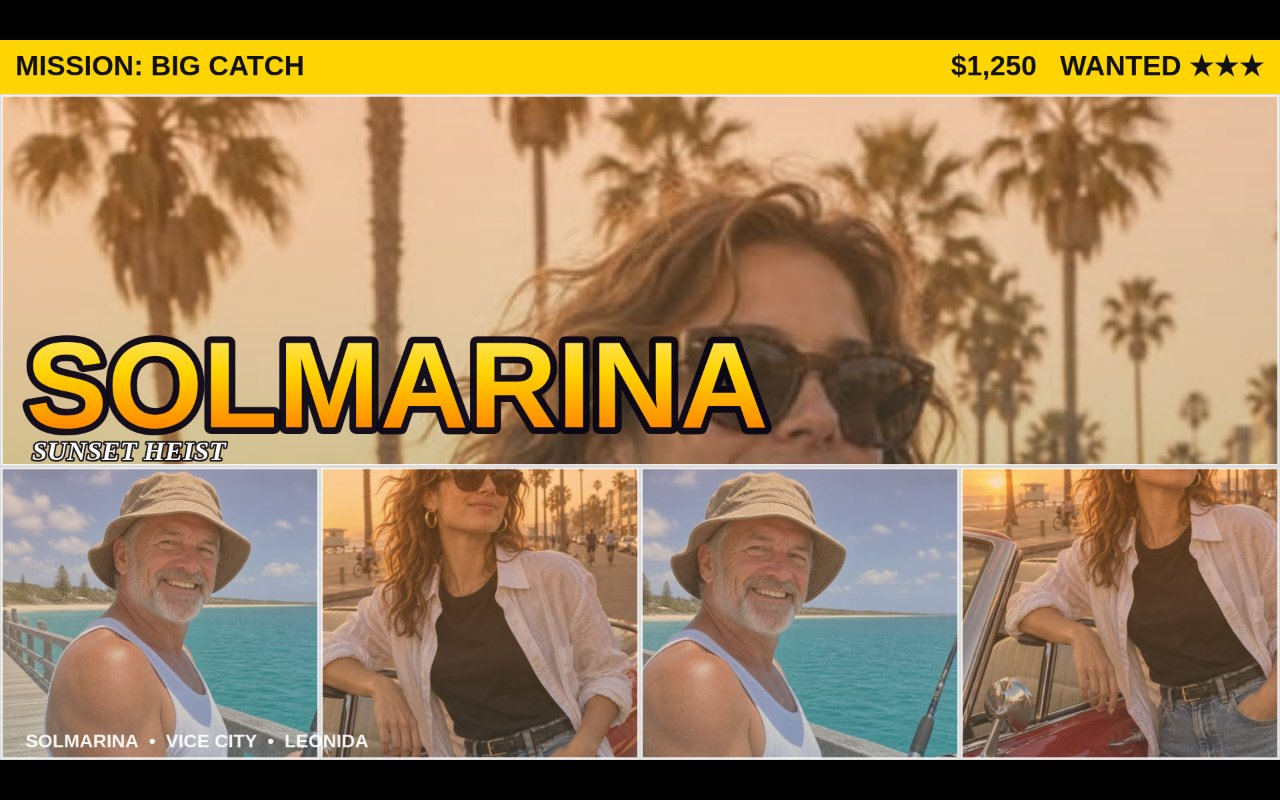
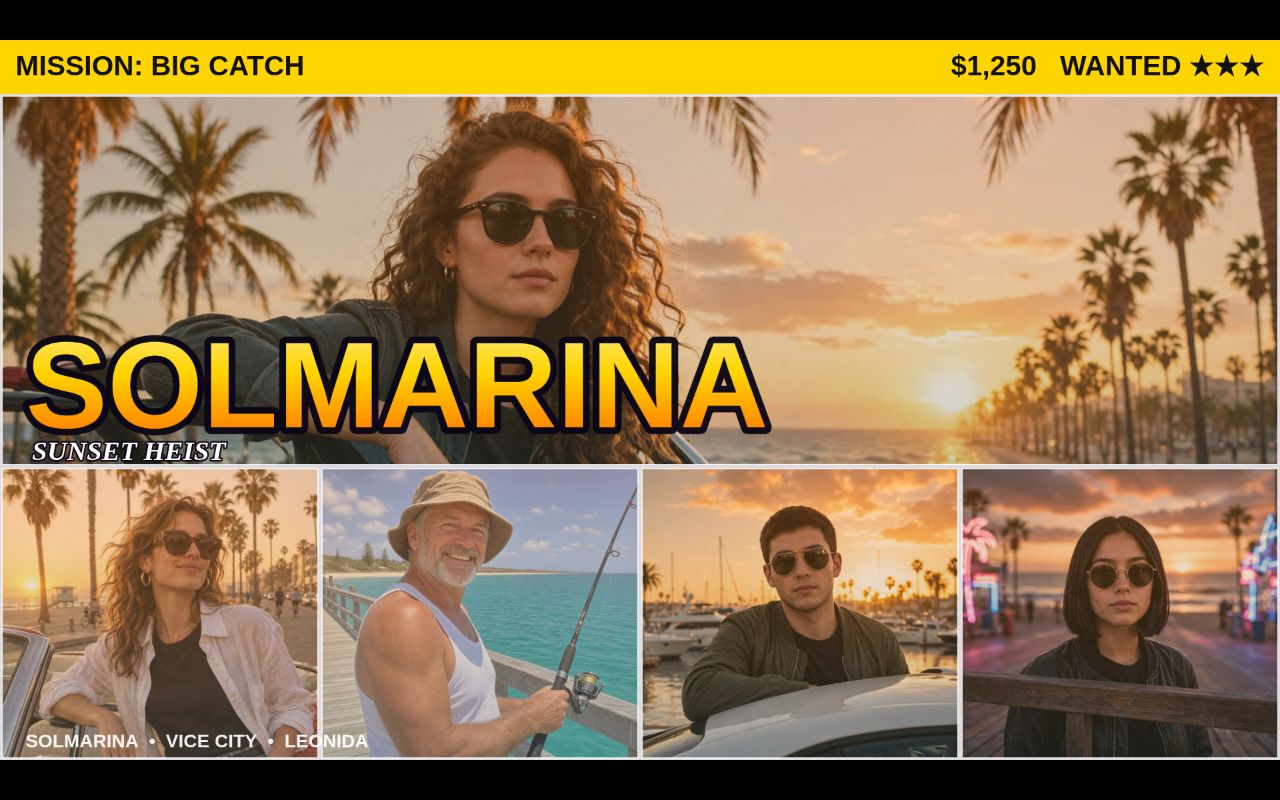
Cover art v2 fix: whole faces, four distinct bottom panels
Hero now uses a new wide 16:9 photo (hero-sunset) framed so the
woman's face sits whole above the giant SOLMARINA title, and the
brightness-scan focus override in boot() no longer drags the face
down under the title. Bottom panels use a per-photo focus table so
all four show a different photo (boulevard, pier, cruise, rooftop)
with each face centred whole in its panel. Two new model-made
photos (cruise, rooftop) join the samples; shot 1 points at the
new hero photo.

diff --git a/app/src/main.js b/app/src/main.js
@@ -7,6 +7,9 @@ import { shotModeFromParams, applyShotMode } from './shots.js';
 const SAMPLES = {
   boulevard: 'samples/boulevard.jpg',
   pier: 'samples/pier.jpg',
+  'hero-sunset': 'samples/hero-sunset.jpg',
+  cruise: 'samples/cruise.jpg',
+  rooftop: 'samples/rooftop.jpg',
 };
 
 const PHOTO_NAMES = Object.keys(SAMPLES);
@@ -71,21 +74,28 @@ function detectFocus(img) {
   }
 }
 
+// Face focus per photo, measured from the photo itself: where the face
+// sits in the frame. The hero strip is wide and short, so its focus sits
+// a little below the face to lift the whole face above the giant title;
+// the near-square bottom panels centre on the face instead.
+const PHOTO_FOCUS = {
+  boulevard: { hero: { zoom: 1, cx: 0.5, cy: 0.22 }, panel: { zoom: 1, cx: 0.48, cy: 0.19 } },
+  pier: { hero: { zoom: 1, cx: 0.38, cy: 0.32 }, panel: { zoom: 1, cx: 0.38, cy: 0.24 } },
+  'hero-sunset': { hero: { zoom: 1, cx: 0.44, cy: 0.35 }, panel: { zoom: 1, cx: 0.44, cy: 0.27 } },
+  cruise: { hero: { zoom: 1, cx: 0.5, cy: 0.36 }, panel: { zoom: 1, cx: 0.5, cy: 0.3 } },
+  rooftop: { hero: { zoom: 1, cx: 0.5, cy: 0.38 }, panel: { zoom: 1, cx: 0.5, cy: 0.33 } },
+};
+
 function defaultPanels(photo) {
-  const crops = [
-    { zoom: 1.05, cx: 0.5, cy: 0.4 },
-    { zoom: 1.3, cx: 0.32, cy: 0.35 },
-    { zoom: 1.2, cx: 0.68, cy: 0.45 },
-    { zoom: 1.4, cx: 0.5, cy: 0.3 },
-    { zoom: 1.15, cx: 0.42, cy: 0.55 },
-  ];
-  return crops.map((c, i) => ({
-    photo: i % 2 === 0 ? photo : (photo === 'boulevard' ? 'pier' : 'boulevard'),
-    scene: null,
-    zoom: c.zoom,
-    cx: c.cx,
-    cy: c.cy,
-  }));
+  // Hero first, then every other photo exactly once: four different bottom
+  // panels, never a repeat.
+  const names = [photo, ...PHOTO_NAMES.filter((n) => n !== photo)];
+  return names.map((name, i) => {
+    const focus = PHOTO_FOCUS[name]
+      || { hero: { zoom: 1, cx: 0.5, cy: 0.4 }, panel: { zoom: 1, cx: 0.5, cy: 0.4 } };
+    const crop = i === 0 ? focus.hero : focus.panel;
+    return { photo: name, scene: null, zoom: crop.zoom, cx: crop.cx, cy: crop.cy };
+  });
 }
 
 function readStateFromQuery(params) {
@@ -266,12 +276,9 @@ async function boot() {
       // A missing sample leaves its panels to the painted scenes.
     }
   }
-  // Hero focus from the real photo, so the subject is centred, not guessed.
-  if (photos[state.panels[0].photo]) {
-    const focus = detectFocus(photos[state.panels[0].photo]);
-    state.panels[0].cx = focus.cx;
-    state.panels[0].cy = focus.cy;
-  }
+  // Keep the hand-set hero focus from defaultPanels: the brightness scan
+  // used to drag the face down under the giant title, so it no longer
+  // overrides the framing here. (Auto GTA still uses the scan on demand.)
   wireControls();
   syncControls();
   app.redraw();

diff --git a/app/index.html b/app/index.html
@@ -40,6 +40,9 @@
           <select id="panelPhoto">
             <option value="boulevard">Boulevard</option>
             <option value="pier">Pier</option>
+            <option value="hero-sunset">Hero Sunset</option>
+            <option value="cruise">Cruise</option>
+            <option value="rooftop">Rooftop</option>
           </select>
         </label>
         <label>Zoom
